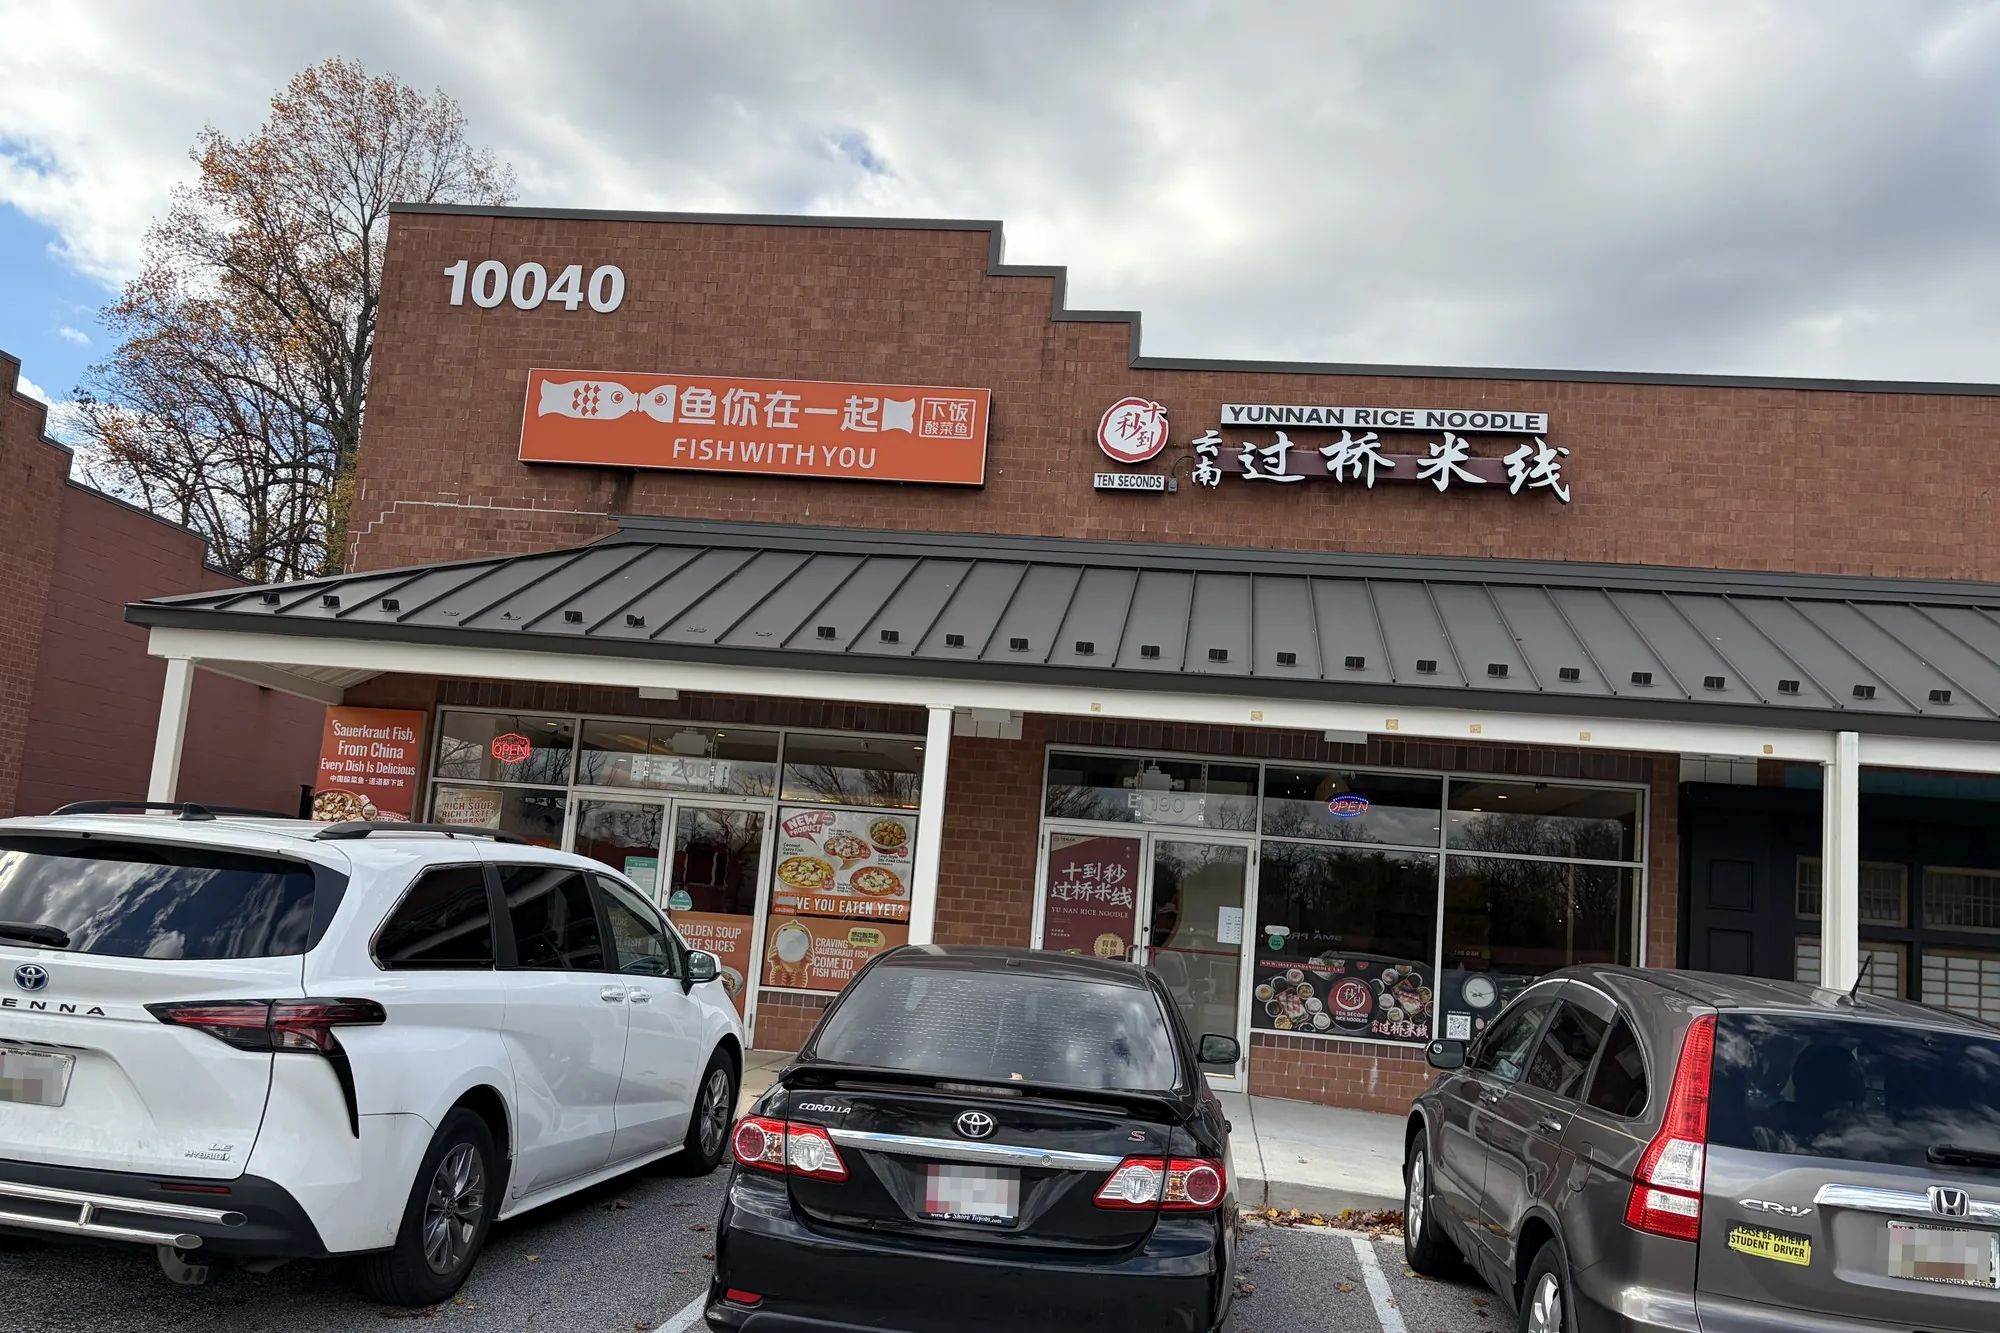
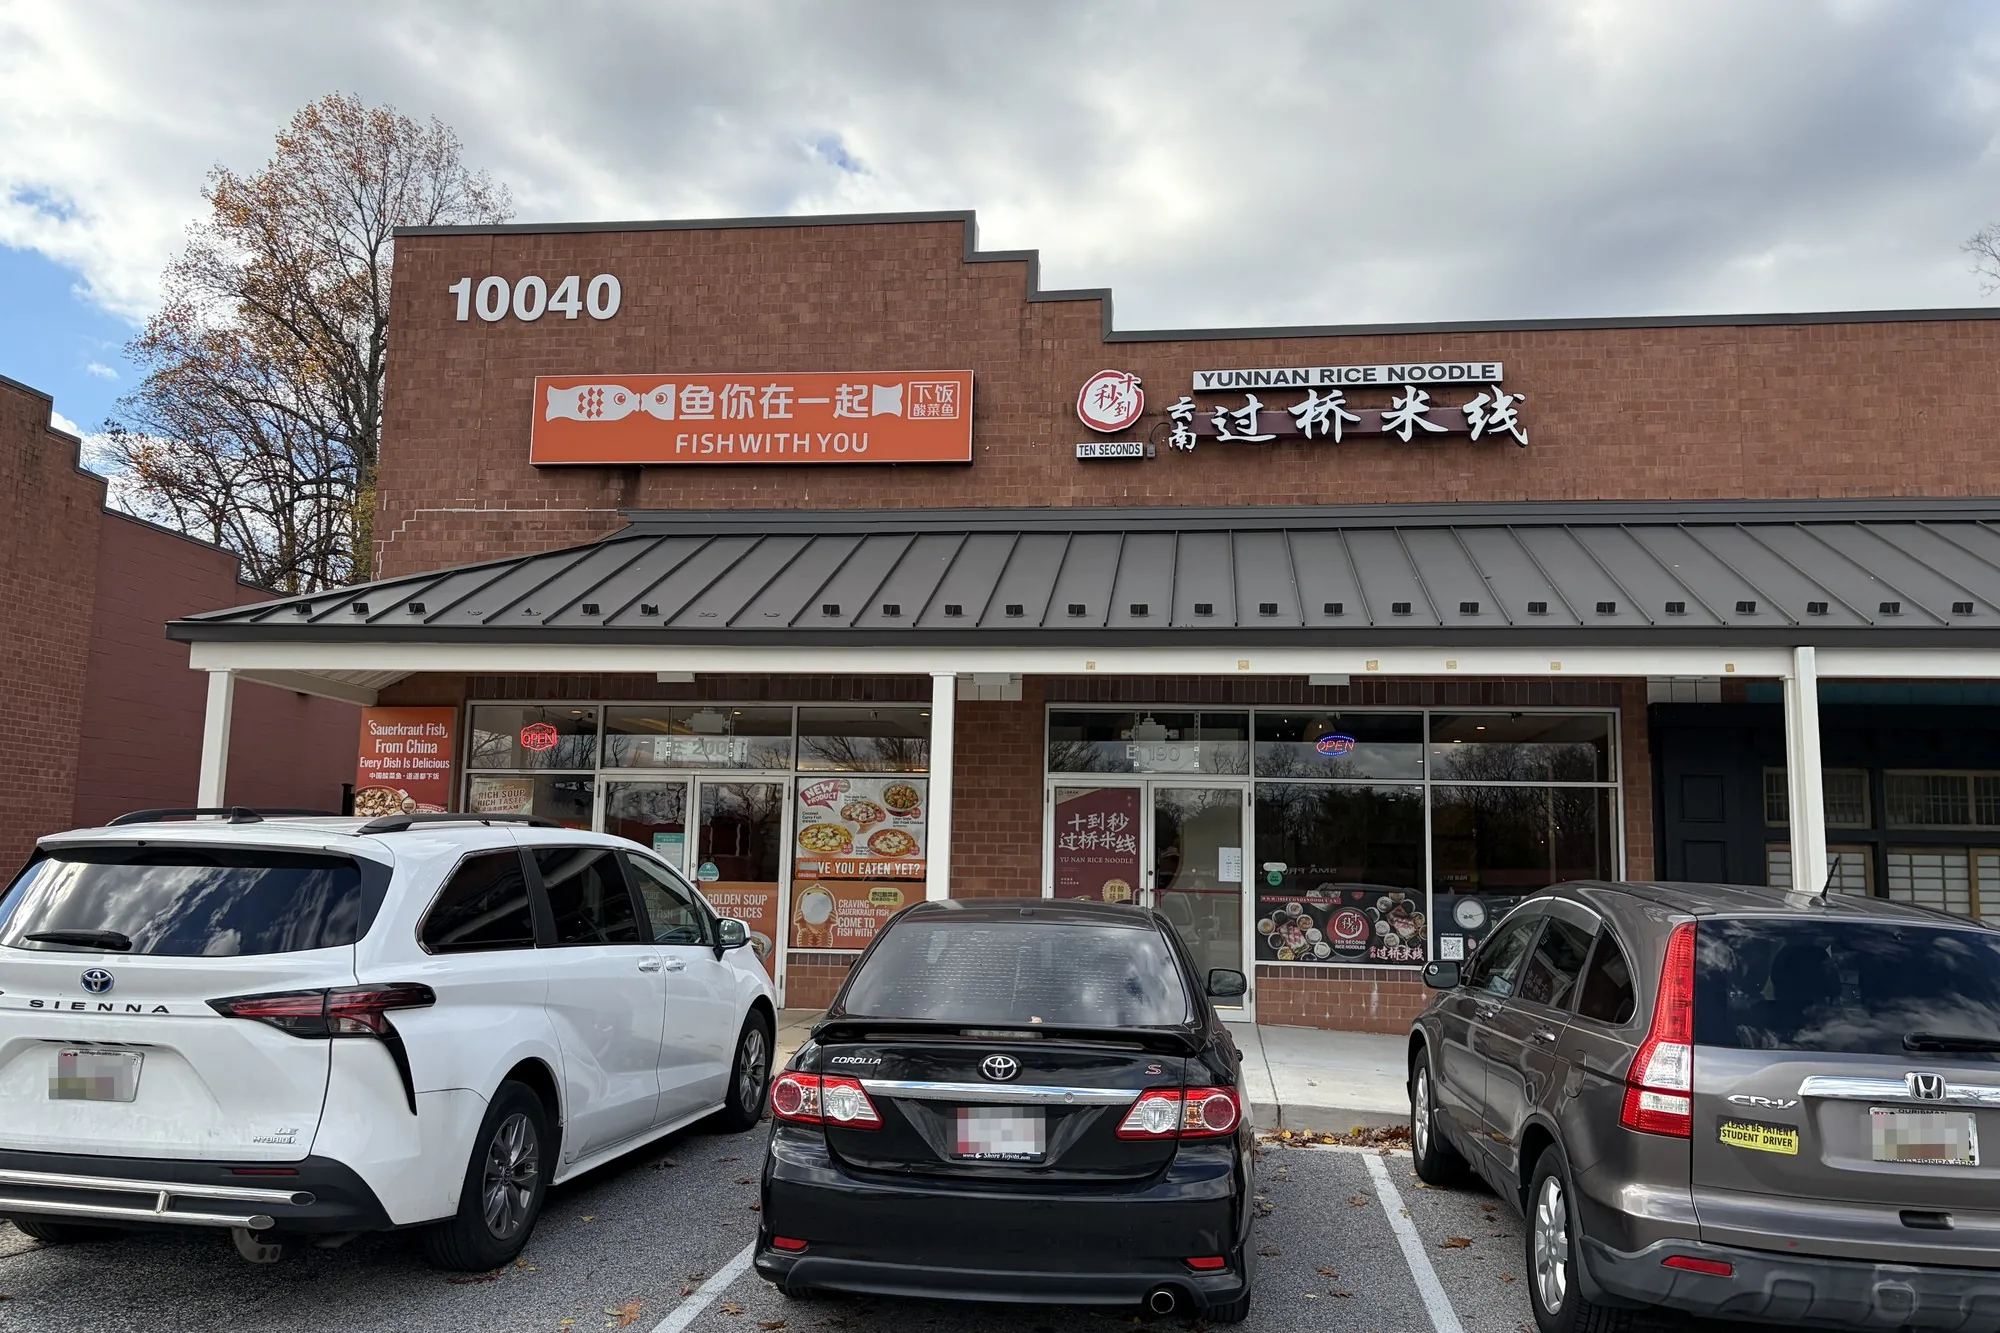
Co-tenancy: correct the Ellicott City leveling (was rotated the wrong way)
The deployed version was rotated -2.7deg, which compounded the original ~0.68deg
down-right tilt into ~3.4deg (my earlier passes went the wrong direction). Measured
the awning eave numerically: original slope +0.68deg (descends right); rotate(+0.68)
zeroes it. Re-rendered from the original at +0.68deg (eave now level, grid-verified);
plate masks re-applied before rotation. Cache-bust ?v=2 on the image refs since the
old version is already live.

diff --git a/map/centers.html b/map/centers.html
@@ -94,8 +94,8 @@
       </figure>
       <figure style="margin:0">
         <div style="position:relative;aspect-ratio:3/2;border:1px solid var(--ink);overflow:hidden;background:var(--grey-base)">
-          <picture><source srcset="photos/cotenancy-ellicott.webp" type="image/webp">
-            <img src="photos/cotenancy-ellicott.jpg" loading="lazy" alt="Fish With You and Ten Seconds Yunnan Rice Noodle sharing one strip-mall storefront in Ellicott City, Maryland" style="width:100%;height:100%;object-fit:cover;display:block"></picture>
+          <picture><source srcset="photos/cotenancy-ellicott.webp?v=2" type="image/webp">
+            <img src="photos/cotenancy-ellicott.jpg?v=2" loading="lazy" alt="Fish With You and Ten Seconds Yunnan Rice Noodle sharing one strip-mall storefront in Ellicott City, Maryland" style="width:100%;height:100%;object-fit:cover;display:block"></picture>
         </div>
         <figcaption style="padding-top:8px;font-size:13px;color:var(--muted)">
           <span data-i18n="centers.cap.ellicott"><strong style="color:var(--ink)">Ellicott City (MD)</strong> — Fish With You (Yonny) and Ten Seconds share one strip-mall storefront at 10040: two China-origin chains in a single frame.</span>
